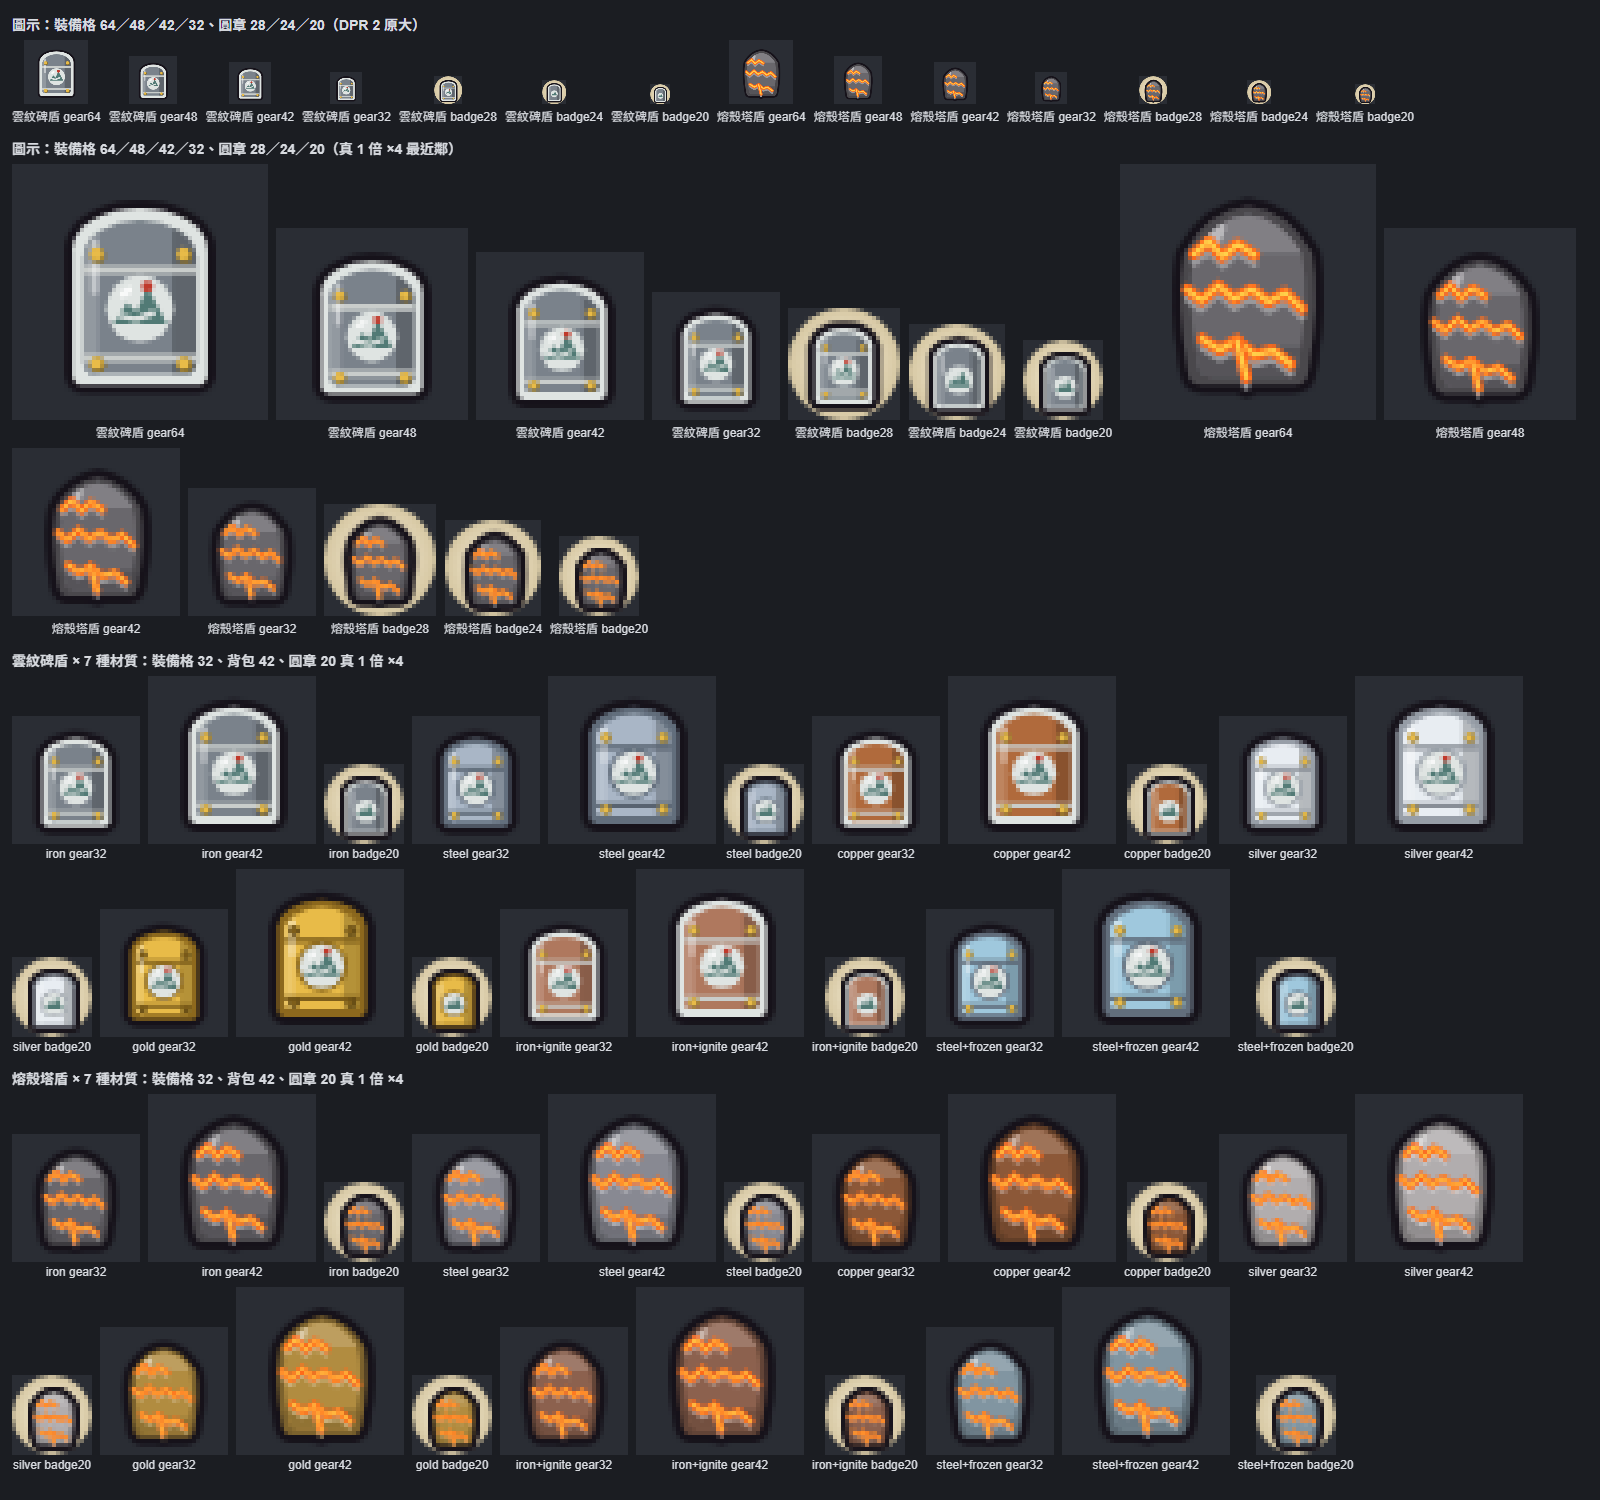
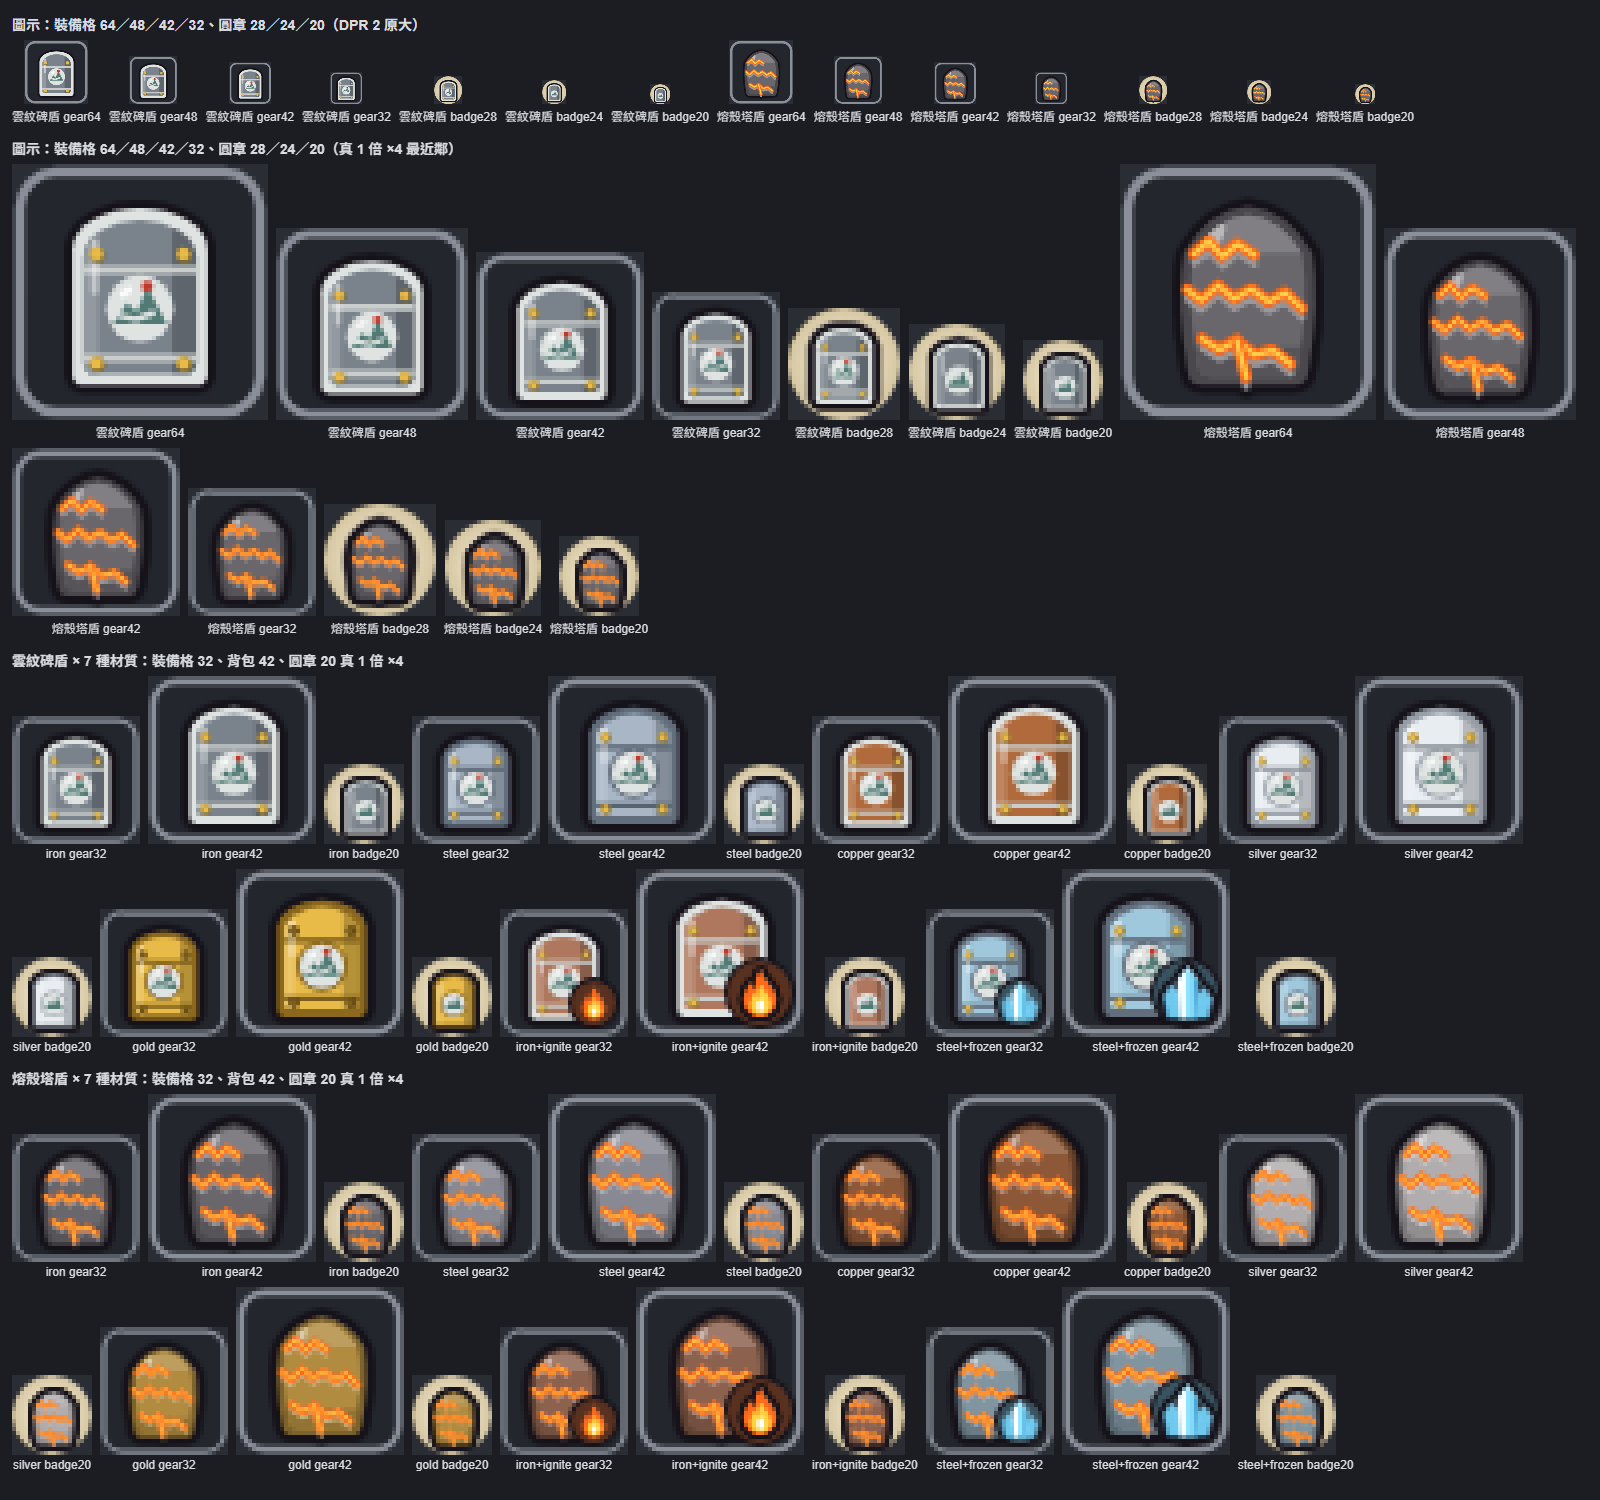
chore(client): RG-5 batch 2 dev pages and shots; keyword tests count 107 gear looks
Scene page adds ?mode=c (shield formation preview) and ?mode=d (unit card stack gauges); duel gallery adds &duel=none; reshot bag/scene/icons with the real gearAppearance.json; keyword corner/chip tests now expect 107 looks after the two kite_shield forms.

diff --git a/client/src/dev/rg5ShieldScene.tsx b/client/src/dev/rg5ShieldScene.tsx
@@ -2,9 +2,14 @@
 // 用正式元件與正式資料流畫：戰場是 `BattleRenderer`＋`buildDrawModel`（單位的 `equipment` 走 dollGear → resolveGear → 紙娃娃，和實機同一條路）；
 // 背包與裝備欄是 `BagContents`（42 格）與 `WornSlot`（48 格），圖示走 `GearIcon` → gearIconCanvas → qWeaponDef。資料是假的。
 // 參數：?mode=scene&w=1600|800（格子 63／25 px，等於 1600、800 寬視窗的地圖縮放 1.31／0.53）｜?mode=bag
+//       ｜?mode=c&w=1600|800：盾陣（shield_formation）的預覽沿用盾兵小盾＋點線（RG-4 驗收待決 9）
+//       ｜?mode=d&w=1600|800：單位資訊卡層數（KW-3 待決 3：四種計量 StackPips，其他照舊）
 //       ｜?mode=k3&w=1600|800：RG-4 驗收 K3（持盾弟子身邊的粉紅小點）的對照——南鄰格比較高的單位畫 6F-22 舊剪影（敵方 #ffb3a8 虛線人形），平地的不畫。
 import { createRoot } from "react-dom/client";
-import type { BattleView, Glossary, HeroGearSlot, TileView, UnitView, WorldInventory, WorldBagItem } from "../api/types";
+import type { BattleView, Glossary, HeroGearSlot, PreviewOut, TileView, UnitView, WorldInventory, WorldBagItem } from "../api/types";
+import { guardDraw } from "../battle/rgMarks";
+import { unitNames } from "../battle/units";
+import { UnitInfo } from "../ui/UnitInfo";
 import glossary from "../battle/fixtures/glossary.json";
 import { buildDrawModel } from "../battle/drawModel";
 import { setGlossary } from "../battle/glossary";
@@ -86,6 +91,53 @@ async function showK3(): Promise<void> {
   r.draw(buildDrawModel(k3Scene(), HERO));
   document.body.dataset["ready"] = "1";
 }
+/** C：主角（弓）瞄準敵方符籙師；旁邊持塔盾（帶盾陣）的熔殼兵擋著 → 預覽 cover.kind＝shield_formation。 */
+function cScene(): BattleView {
+  const units: UnitView[] = [
+    unit("unit_0090", "enemy", 2, 1, { template_id: "t", name_zh: "符籙師", facing: "south" } as Partial<UnitView>),
+    unit("unit_0091", "enemy", 3, 1, { template_id: "t", name_zh: "盾陣兵", facing: "south", equipment: [{ slot: "off_hand", appearance: shield("molten_shell", "iron") }] } as Partial<UnitView>),
+    unit(HERO, "ally", 2, 4, { template_id: "hero_fighter", name_zh: "主角", facing: "north", weapon_id: "short_bow", weapon_class: "ranged" } as Partial<UnitView>),
+  ];
+  return { ...scene(), units, tiles: grid(5), height: 5 } as BattleView;
+}
+async function showC(): Promise<void> {
+  const cell = W === 800 ? 25 : 63;
+  const v = cScene();
+  const preview = { action: { type: "attack", unit_id: HERO, target_id: "unit_0090" }, cover: { penalty: 2, kind: "shield_formation", name_zh: "盾陣兵的盾陣", pos: [3, 1], unit_id: "unit_0091" } } as unknown as PreviewOut;
+  const box = document.createElement("div");
+  const h = document.createElement("h2");
+  h.textContent = `盾陣預覽（格子 ${cell}px、真 1 倍）：主角瞄準符籙師，旁邊持塔盾（盾陣）的人擋著 → 小盾＋點線（同盾兵）；預覽字（伺服器給的 name_zh 為假資料）：`;
+  box.appendChild(h);
+  const t = document.createElement("div");
+  t.id = "preview-text";
+  // 預覽框那一行的格式照 previewText.previewLines（「目標有{cover.name_zh}掩護（命中 −n）」）；整段 previewLines 要完整的 PreviewOut，這裡只示意那一行
+  const c = preview.cover;
+  t.textContent = c !== null ? `預覽框：目標有${c.name_zh}掩護（命中 −${c.penalty}）` : "";
+  box.appendChild(t);
+  document.body.appendChild(box);
+  const r = new BattleRenderer();
+  await r.init(box);
+  r.setScale(cell / 48);
+  r.draw(buildDrawModel(v, HERO));
+  r.setHighlights({ moves: [], attacks: [{ x: 2, y: 1 }], directions: [], preview: [], telegraph: [], focus: null, hover: { x: 2, y: 1 }, overlays: [], picked: [], vaults: [], guard: guardDraw(preview, v) });
+  setTimeout(() => (document.body.dataset["ready"] = "1"), 800);
+}
+/** D：單位資訊卡（正式元件 UnitInfo）：連擊 3＋怒氣滿＋專注 1＋氣 2＋其他層數。 */
+function CardD() {
+  const u = unit("unit_0090", "enemy", 1, 1, { name_zh: "刀客", stacks: { combo_point: 3, fury: 4, focus: 1, ki: 2, static_charge: 2 } } as Partial<UnitView>);
+  const u2 = unit("unit_0091", "enemy", 2, 1, { name_zh: "拳師", stacks: { ki: 1, static_charge: 1 } } as Partial<UnitView>);
+  const v = { ...scene(), units: [u, u2] } as BattleView;
+  const names = unitNames(v);
+  return (
+    <div style={{ display: "flex", gap: 16, alignItems: "flex-start" }}>
+      {[u, u2].map((x) => (
+        <div key={x.id} className="unit-float bridge-left pinned" style={{ position: "relative", left: 0, top: 0, pointerEvents: "auto" }}>
+          <UnitInfo unit={x} names={names} heroId={HERO} skills={{}} view={v} />
+        </div>
+      ))}
+    </div>
+  );
+}
 async function showScene(): Promise<void> {
   header();
   const cell = W === 800 ? 25 : 63;
@@ -152,5 +204,14 @@ if (MODE === "bag") {
   document.body.appendChild(root);
   createRoot(root).render(<Bag />);
   setTimeout(() => (document.body.dataset["ready"] = "1"), 500);
-} else if (MODE === "k3") await showK3();
+} else if (MODE === "d") {
+  const h = document.createElement("h2");
+  h.textContent = `單位資訊卡層數（視窗 ${W}、真 1 倍）：連擊、怒氣、專注、氣是 HUD 同尺寸計量，其他層數（靜電）照舊`;
+  document.body.appendChild(h);
+  const root = document.createElement("div");
+  document.body.appendChild(root);
+  createRoot(root).render(<CardD />);
+  setTimeout(() => (document.body.dataset["ready"] = "1"), 500);
+} else if (MODE === "c") await showC();
+else if (MODE === "k3") await showK3();
 else await showScene();

diff --git a/client/src/dev/duelGallery.tsx b/client/src/dev/duelGallery.tsx
@@ -4,7 +4,7 @@
 //           主角 hero_fighter＋steel sword）× DPR 1、2 的整張 duelCanvas；獸爪單獨（48 格，px 48、58 × res 1、2）；
 //           另外逐項比（歸因用）：主角／精英剪影（cv、seam）、交叉的武器圖示、紙娃娃小人本身（樣張 QDoll.stamp／QNpc.stamp vs 遊戲端 qStamp）。
 //           輸出 `<pre id="out">`。
-//   dialog  正式的遇敵卡（EncounterPanel）＋單挑段＋插圖，假資料（&e=wolf｜lord｜scar｜forge，&w=1600｜800 只決定卡片外的舞台寬）。
+//   dialog  正式的遇敵卡（EncounterPanel）＋單挑段＋插圖，假資料（&e=wolf｜lord｜scar｜forge，&w=1600｜800 只決定卡片外的舞台寬；&duel=none 沒有單挑提議，看「開戰」主鈕對照）。
 //   （沒有 mode）並排看圖：四場樣張（上）vs 遊戲端（下），DPR 2；獸爪 ×4。
 // 重跑（無頭 Chrome，一定要 --disable-gpu）：chrome --headless=new --disable-gpu --dump-dom --virtual-time-budget=60000 "http://127.0.0.1:<port>/dev/duel-gallery.html?mode=diff&mute=1"
 import { createRoot } from "react-dom/client";
@@ -362,8 +362,8 @@ function DialogScene({ e }: { e: string }) {
       opening_zh: [],
       allies_zh: "主角（開場 HP 60）",
       battlefield_fallback_zh: null,
-      duel: "offered",
-      duel_zh: `接受：只有你和${E.zh}上場，隊友、傭兵不上場。拒絕：照原本全隊開打。兩邊的獎勵一樣（經驗、掉落、懸賞照整個陣容算）。`,
+      duel: P.get("duel") === "none" ? null : "offered",
+      duel_zh: P.get("duel") === "none" ? null : `接受：只有你和${E.zh}上場，隊友、傭兵不上場。拒絕：照原本全隊開打。兩邊的獎勵一樣（經驗、掉落、懸賞照整個陣容算）。`,
     },
   } as unknown as WorldView;
   const w = Number(P.get("w") ?? 1600);

diff --git a/client/src/render/qIcon/qIconKeywords.test.ts b/client/src/render/qIcon/qIconKeywords.test.ts
@@ -114,7 +114,7 @@ describe("T-A3 角", () => {
     });
   });
   it("105 款：查 kind/form → kind → 右下；沒有任何一款放右上；例外表的每一列都對到實際的款", () => {
-    expect(LOOKS).toHaveLength(105);
+    expect(LOOKS).toHaveLength(107); // RG-5 起鳶盾多兩款（雲紋碑盾、熔殼塔盾）
     const used = new Set<string>();
     for (const look of LOOKS) {
       const c = K.cornersOf({ def: defOf(look) })[0], kf = `${look.kind}/${look.form}`, want = K.KEY_CORNER[kf]?.[0] ?? K.KEY_CORNER[look.kind!]?.[0] ?? "br";

diff --git a/client/src/render/qi4bGearKeywords.test.ts b/client/src/render/qi4bGearKeywords.test.ts
@@ -60,7 +60,7 @@ describe("T-B1 接線：關鍵字層＝直接呼叫 keywords.paint", () => {
         n += 1;
       }
     });
-    expect(n).toBe(105 * 5 * 2);
+    expect(n).toBe(107 * 5 * 2); // RG-5 起鳶盾多兩款（雲紋碑盾、熔殼塔盾）
   });
   it("沒有關鍵字時 chips 不多畫任何東西", () => {
     for (const look of LOOKS.slice(0, 20)) expect(sig(gear(look, true, 48, 2))).toEqual(sig(gear(look, false, 48, 2)));
